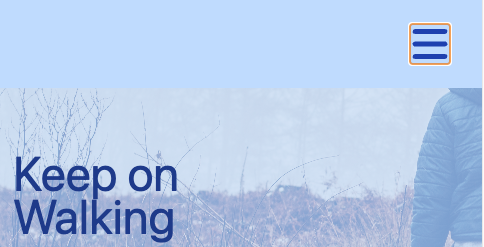
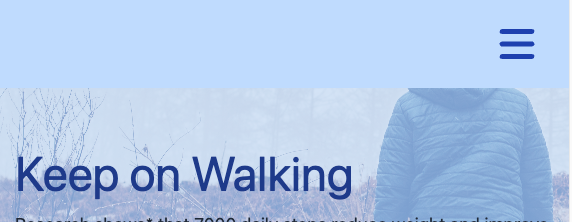
update preview of navbar on small screens

Changed region(s): [[0.0, 0.3514, 1.0, 1.0], [0.8368, 0.0811, 0.9607, 0.2703], [0.124, 0.4054, 0.2169, 0.5135]]

diff --git a/README.md b/README.md
@@ -164,8 +164,10 @@ On top of each page, a navbar is placed leading to sites available to the user.
       <td> <img src="./assets/images/navbar-2.png"; alt="preview image of the navbar" >  </td>
       </tr>
         <tr>
-      <td> <img style='width:30%' src="./assets/images/navbar-small-1.png"; alt="preview image of the navbar" > 
-      <img style='width:30%' src="./assets/images/navbar-small-2.png"; alt="preview image of the navbar" >   </td>
+      <td> 
+      <img style='width:30%' src="./assets/images/navbar-small-1.png"; alt="preview image of the navbar" > 
+      <img style='width:30%' src="./assets/images/navbar-small-2.png"; alt="preview image of the navbar" >   
+      <img style='width:30%' src="./assets/images/navbar-small-3.png"; alt="preview image of the navbar" >   </td>
       </tr>
     </table>
   </div>
